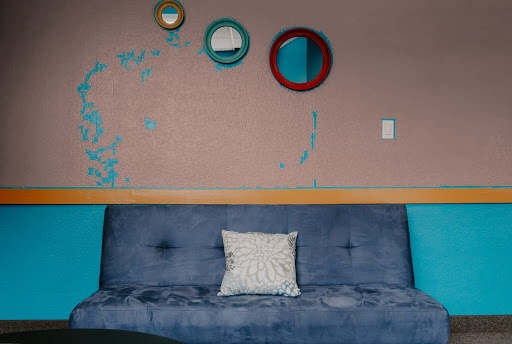
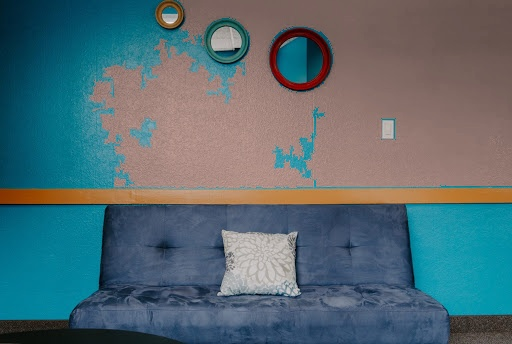
fix

diff --git a/server.py b/server.py
@@ -141,11 +141,11 @@ class SimpleHTTPRequestHandler(http.server.BaseHTTPRequestHandler):
                     dict[item[0]] = item[1]
                 img = dict['img']
                 if 'color' in dict and 'pattern'in dict:
-                    img_proc.changeColor(dict['img'], (100,100), dict['color'].split(','), dict['pattern'])
+                    img_proc.changeColor(dict['img'], (300,100), dict['color'].split(','), dict['pattern'])
                 elif 'color' in dict:
-                    img_proc.changeColor(dict['img'], (100,100), dict['color'].split(','), None)
+                    img_proc.changeColor(dict['img'], (300,100), dict['color'].split(','), None)
                 elif 'pattern'in dict:
-                    img_proc.changeColor(dict['img'], (100,100), None, dict['pattern'])
+                    img_proc.changeColor(dict['img'], (300,100), None, dict['pattern'])
             self.path = './public/images/' + self.path
             path = self.translate_path(self.path)
             return self.list_directory(path, img)

diff --git a/img_proc.py b/img_proc.py
@@ -55,7 +55,7 @@ def getOutlineImg(img):
     # clahe = cv2.createCLAHE(clipLimit=2.0, tileGridSize=(8,8))
     # img = clahe.apply(img)
     # img = cv2.equalizeHist(img)
-    return cv2.Canny(img,100,200)  # todo: can be optimised later
+    return cv2.Canny(img,50,200)  # todo: can be optimised later
 
 
 def getColoredImage(img, new_color, pattern_image):
